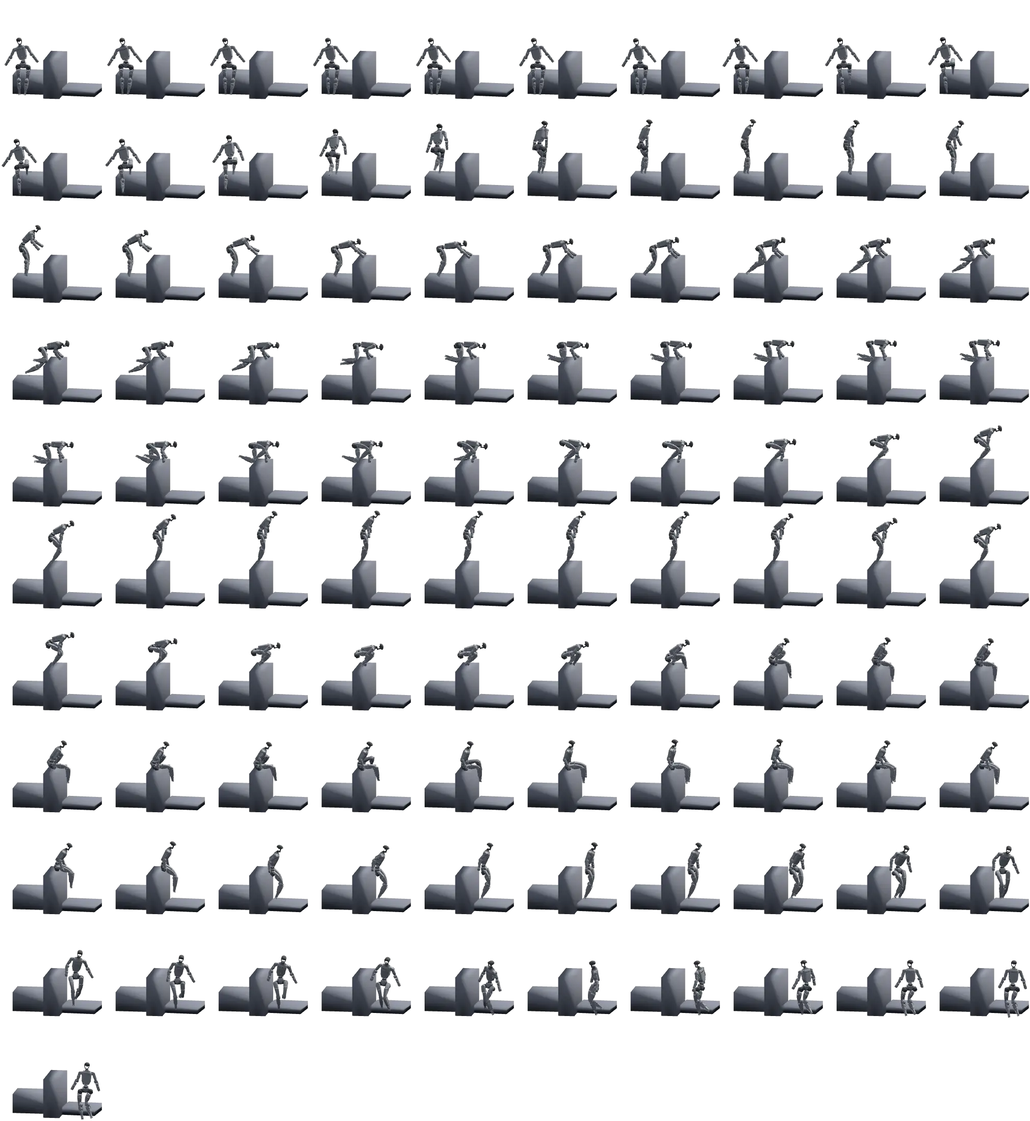
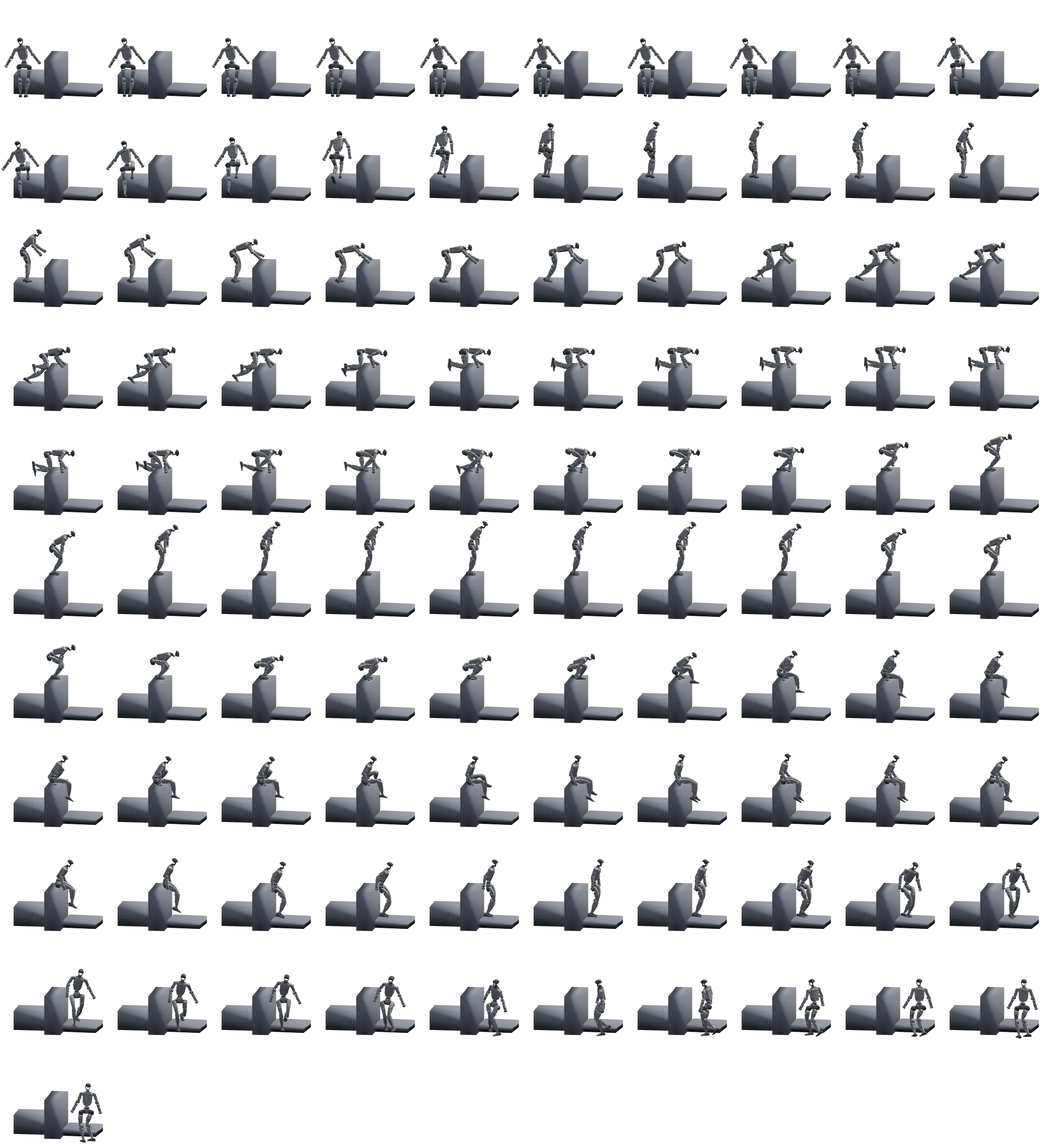
fix(OmniRetarget): 第 8 幕的 G1 补上手和脚，第 10 幕柱状图数字不压柱子
- 爬平台用的球形手 G1（g1_29dof_spherehand）里，脚、踝和手只有碰撞网格；离线导出时只取可视网格，
  这几块被跳过，渲出来的机器人没有手和脚。改成没有可视网格的 body 退回去画碰撞网格，三档平台的贴图表重渲
- 表 II 小多图的数字写在柱顶上方、跟着柱子长高，字号 10 → 11
- 测试核对柱子标签的位置；RELEASE_PLAN.md、AGENTS.md 记下这两处

Claude-Session: https://claude.ai/code/session_011Z1kwS3i78G3dKSyLdcSVm

diff --git a/assets/js/demos/omniretarget.js b/assets/js/demos/omniretarget.js
@@ -500,9 +500,9 @@
     anch_orig: {'file': 'g1_anch_orig.webp', 'R': 170, 'yaw': -1.0, 'pitch': 0.12, 'cw': 141, 'ch': 215, 'cols': 10, 'n': 20, 'ax': 46, 'ay': 206, 'step': 3, 'anchor': [0.6348, 0.8022, 0.0]},
     anch_code: {'file': 'g1_anch_code.webp', 'R': 170, 'yaw': -1.0, 'pitch': 0.12, 'cw': 141, 'ch': 217, 'cols': 10, 'n': 20, 'ax': 24, 'ay': 206, 'step': 3, 'anchor': [0.6348, 0.8022, 0.0]},
     anch_none: {'file': 'g1_anch_none.webp', 'R': 170, 'yaw': -1.0, 'pitch': 0.12, 'cw': 141, 'ch': 217, 'cols': 10, 'n': 20, 'ax': 24, 'ay': 206, 'step': 3, 'anchor': [0.6348, 0.8022, 0.0]},
-    climb_z08: {'file': 'g1_climb_z08.webp', 'R': 90, 'yaw': -1.35, 'pitch': 0.18, 'cw': 202, 'ch': 190, 'cols': 10, 'n': 101, 'ax': 95, 'ay': 184, 'step': 7, 'anchor': [-1.0, -0.5, 0.0]},
-    climb_z10: {'file': 'g1_climb_z10.webp', 'R': 90, 'yaw': -1.35, 'pitch': 0.18, 'cw': 203, 'ch': 193, 'cols': 10, 'n': 101, 'ax': 96, 'ay': 187, 'step': 7, 'anchor': [-1.0, -0.5, 0.0]},
-    climb_z12: {'file': 'g1_climb_z12.webp', 'R': 90, 'yaw': -1.35, 'pitch': 0.18, 'cw': 202, 'ch': 200, 'cols': 10, 'n': 101, 'ax': 95, 'ay': 197, 'step': 7, 'anchor': [-1.0, -0.5, 0.0]},
+    climb_z08: {'file': 'g1_climb_z08.webp', 'R': 90, 'yaw': -1.35, 'pitch': 0.18, 'cw': 204, 'ch': 194, 'cols': 10, 'n': 101, 'ax': 97, 'ay': 184, 'step': 7, 'anchor': [-1.0, -0.5, 0.0]},
+    climb_z10: {'file': 'g1_climb_z10.webp', 'R': 90, 'yaw': -1.35, 'pitch': 0.18, 'cw': 205, 'ch': 197, 'cols': 10, 'n': 101, 'ax': 98, 'ay': 187, 'step': 7, 'anchor': [-1.0, -0.5, 0.0]},
+    climb_z12: {'file': 'g1_climb_z12.webp', 'R': 90, 'yaw': -1.35, 'pitch': 0.18, 'cw': 204, 'ch': 204, 'cols': 10, 'n': 101, 'ax': 97, 'ay': 197, 'step': 7, 'anchor': [-1.0, -0.5, 0.0]},
     anch_pin: {'file': 'g1_anch_pin.webp', 'R': 170, 'yaw': -1.0, 'pitch': 0.12, 'cw': 150, 'ch': 216, 'cols': 10, 'n': 20, 'ax': 33, 'ay': 205, 'step': 3, 'anchor': [0.6348, 0.8022, 0.0]}
   };
   var spriteSeq = 0;
@@ -1326,9 +1326,10 @@
           var v = T.rows[m][c.i], bw = 160 / ms.length - 8, bx = x0 + 4 + k * (bw + 8);
           if (!v) { g.appendChild(svgText(bx + bw / 2, base - 4, 'N/A', 'demo-x-mut', 8.5, 'middle')); return; }
           var b = vbar(g, bx, base, bw, M_COLOR[m], m === 'OmniRetarget' ? 0.95 : 0.7);
-          var lab = svgText(bx + bw / 2, base - 4, fmt(v[0], 2), 'demo-x-ink', 10, 'middle');
+          /* 数字写在柱顶上方，跟着柱子长高，不压在柱子上 */
+          var lab = svgText(bx + bw / 2, base - 5, fmt(v[0], 2), 'demo-x-ink', 11, 'middle');
           g.appendChild(lab);
-          bars.push({ b: b, h: (60 * Math.min(v[0], c.max)) / c.max, lab: lab });
+          bars.push({ b: b, h: (60 * Math.min(v[0], c.max)) / c.max, lab: lab, base: base });
         });
       });
       return { g: g, bars: bars };
@@ -1348,7 +1349,12 @@
       rowsG.forEach(function (r, k) {
         var a = [3.6, 10.4, 13.6][k];
         setOpacity(r.g, seg(t, a, a + 0.6));
-        r.bars.forEach(function (b, i) { setH(b.b, b.h * ease(seg(t, a + 0.3 + i * 0.03, a + 1.3 + i * 0.03))); setOpacity(b.lab, seg(t, a + 1.2, a + 1.6)); });
+        r.bars.forEach(function (b, i) {
+          var h = b.h * ease(seg(t, a + 0.3 + i * 0.03, a + 1.3 + i * 0.03));
+          setH(b.b, h);
+          b.lab.setAttribute('y', (b.base - h - 5).toFixed(1));
+          setOpacity(b.lab, seg(t, a + 1.2, a + 1.6));
+        });
       });
       setOpacity(gmrNote, seg(t, 7.2, 7.6) * (0.7 + 0.3 * Math.cos(t * 4)));
       setOpacity(why, seg(t, 7.2, 7.8));

diff --git a/tests/test_paper_demos.py b/tests/test_paper_demos.py
@@ -1129,6 +1129,9 @@ def test_omniretarget_explainer_demos_and_worked_example_share_the_paper_numbers
     # 第 3 幕：放大的手腕旁边画出整个人（骨架 + 箱子）和同一帧的 G1 渲染
     lap = js.split("function buildSceneLaplacian()", 1)[1].split("function drawOnPath(", 1)[0]
     assert "skeleton(bodyL" in lap and "boxWire(bodyL" in lap and "g1Sprite(bodyR, 'orig_side')" in lap and "clipCircle(" in lap
+    # 第 10 幕：表 II 柱子上的数字写在柱顶上方、跟着柱子长高，不压在柱子上
+    t2 = js.split("function buildSceneTable2()", 1)[1].split("function buildSceneDownstream()", 1)[0]
+    assert "b.lab.setAttribute('y', (b.base - h - 5).toFixed(1));" in t2
     # 第 1 幕结尾用一句话解释 SOCP：旁白、字幕轨与表 I 下的小卡片同一个说法
     socp = "S O C P 是二阶锥规划，一种凸优化：除了线性约束，还允许「一个向量的长度不超过某个值」，求解器能又快又稳地找到最优解。"
     assert f'(0, 16.0, 19.0, "{socp}")' in narration

diff --git a/AGENTS.md b/AGENTS.md
@@ -85,7 +85,7 @@ Jekyll 把笔记渲染成同名 `.html`，源 `.md` 不会发布，所以 `[PPO]
 
 ### 讲解动画的幕数按内容定，不是固定五幕
 
-`K.explainer` 不限制分镜数量，**幕数应当由论文本身决定**：一个核心概念一幕，开篇提出几个问题就得有几幕来回答，不要为了凑齐模板而拆分或合并。当前 PPO / DeepMimic / AMP / ADD / CALM 各 5 幕（与各自笔记「是怎么做的」那几节一一对应），PHC 6 幕（开篇立了三堵墙，第一堵墙需要「先长出列」「再混合列」两幕），AWR 6 幕（PPO 留下三个麻烦、① 评估、② 指数权重、加权回归就是加权平均、off-policy 的赚与亏、闭环与源码落点，正好六件事），ASE 6 幕（它在 AMP 上叠了六件事：latent code / 为什么必须约束 / encoder / 两半奖励 / diversity / 定期重采样，挤进五幕会让 encoder、奖励拆两半和 diversity 三块共用同一帧，谁都读不清），PULSE 6 幕（三个阶段各一幕，外加开篇的「缺一个通用表示」、命门 VIB 与本体感受先验各一幕 —— VIB 和先验是两件独立的事，合成一幕会让 β 的取舍和「固定先验会踩空」抢同一块画面），SONIC 7 幕（任务选错了 / 三轴一起放大 / universal token space / 五项 aux loss 焊住潜空间 / 实时 kinematic planner / System-1 + System-2 / 数据到实机的闭环 —— 「三路 encoder 汇进一个 FSQ」和「靠五项 aux loss 保证三路真落在同一空间」是两件独立的事，规划器与 VLA 接入也是，压进六幕就会有两幕各塞两件事），GR00T N1 7 幕（没有人形互联网 / 10 Hz 的第 12 层与 63.9 ms 的动作块 / 流匹配路径和 K=4 欧拉 / 数据金字塔三层 / 潜动作与 IDM 补标签 / 一套权重加按本体的 MLP / Table 2–3 的任务加权平均和短程桌面的边界 —— 「频率怎么接」和「流匹配公式」是两件独立的事，金字塔回答数据放哪一层、潜动作回答标签从哪来，压进六幕会有两幕各塞两件），Cosmos 5 幕（为什么要世界模型 / 视频整理 / 因果 tokenizer / 扩散与自回归并列预训练 / 三类后训练示例 —— 扩散和自回归是两条预训练路线，画成前后两级会把 Table 10 的模型地图读反，所以第 4 幕必须是并排的两列），GMR 13 幕（人和机器人的身体不一样 / 两个开源基线怎么缩放 / 第 1、2 步：一张配置表 / 第 3 步：非均匀局部缩放 / 根和脚要用同一个比例 / 第 4 步：先对朝向 / 第 5 步：再对所有位置 / 评测：只换参考动作 / 表 I：谁跟得住 / 图 3：三类瑕疵 / 图 4：像不像原动作 / 表 III：从哪一帧开始 / 开源库与局限 —— 2026-10-11 从七幕重做：论文一半是方法、一半是评测。方法节的五步里，第 1、2 步写在配置的同一行（对应与权重、偏移），合成一幕；第 3 步的式 2 与「根和腿必须同比例」（由式 2 推出的滑脚，配两条复现实验的跑道）是两件事；两个 IK 阶段权重、目标不同，各占一幕；实验节按论文自己的 Q1–Q3 一问一幕，评测设计（三种测法、成功的定义）和第 V-D 节的起始帧各一幕，压回七幕会让表 I 的热图和图 3 的截图、或用户研究和起始帧抢同一帧。人和 G1 的动作是 LAFAN1 `walk1_subject1.bvh` 第 920–1003 帧，我们用 mink + MuJoCo 照官方代码跑出来、以毫米精度 base64 嵌进 bundle（人 22 根骨，G1 21 个身体原点加脚底 8 个接触点，四种设定：GMR 默认 / 全身按身高 / 腿按手臂 / 只跑第一阶段），不是论文的实验；表 I–III、图 4 照抄论文，第 10、11 幕用论文图 1、图 3 的裁剪；动画、三个演示、配音旁白与笔记「🚶 具体实例」共用同一组数，`test_gmr_explainer_demos_and_worked_example_share_the_paper_numbers` 会解码嵌入的片段用 Python 再算一遍。第 3–8、12 幕的 G1 是 3D 渲染：借 [Robot_Retarget_Online](https://github.com/ImChong/Robot_Retarget_Online)（GMR 的浏览器版）的 `loadRobot` + `buildRobotScene`（MuJoCo WASM + three.js），读同一个 `g1_mocap_29dof.xml`，按复现实验的 qpos 用正交相机逐帧离线渲染（相机 yaw / pitch 与 bundle 的 `project()` 同一套，3/4 视角统一为 −0.45 / 0.1、侧视 0 / 0.04），每种设定 84 帧拼成一张 webp 贴图表放在 `assets/img/papers/gmr/g1_3d/`（七张约 1.45 MB），`g1Mesh()` 用嵌套 `<svg viewBox>` 裁出当前帧、骨盆正下方的地面点对齐，二维目标点与连线叠在上面；贴图在该幕第一次 draw 时才设 href，`render.mjs` 预热后会等所有 `<image>` 解码完再出帧。第 12 幕的默认姿态取 BeyondMimic `robots/g1.py` 的 init_state），OmniRetarget 12 幕（只盯关键点会丢掉交互 / 交互网格 / Laplacian 坐标 / 四条硬约束 / 序贯 SOCP / 一条演示扩成六条 / 别让整台机器人跟着箱子平移 / 地形与本体 / 极简强化学习 / 表 II / 下游强化学习 / 真机、数据与局限 —— 2026-10-12 从七幕重做：第 III-A 节里「网格怎么连」（Delaunay）与「形状怎么量」（式 1 的 Laplacian 坐标，配第 76 帧左手腕 22 个邻居的算例）是两件事，式 3 的四条硬约束（配「关掉不穿透 / 关掉脚粘地」的复现曲线）与序贯 SOCP 的求解（信赖域、热启动、每帧迭代次数）又是两件；第 III-B 节的物体扩增（式 7 的指数衰减）、下身锚定与初始双脚（复现实验里官方代码只做了锚定、整台 G1 跟着箱子挪）、地形与本体各占一幕；第 IV 节的极简强化学习一幕；结果按第 V 节：表 II 的运动学质量、下游成功率与图 7 的直方图、真机与开源数据，压回七幕会让穿透曲线和迭代曲线、或表 II 的柱子和图 7 的直方图抢同一帧。2026-10-13 按看片反馈：第 1 幕结尾一句话讲 SOCP（表 I 下的二阶锥卡片），第 2 幕在 Delaunay 之后一句话讲它的规则（G1 出场前右框画平面上的外接圆：一个空、一个圈里还有点），第 3 幕的点图旁边要有人的骨架、箱子和同一帧 G1 的渲染，手腕用放大镜看，否则只看一团点读不懂。G1 是照官方 holosoma 代码在 OMOMO `sub3_largebox_003`（196 帧）与 `mocap_climb_seq_0`（701 帧）上跑的复现实验，用 Robot_Retarget_Online 的 three.js 材质离线渲染成贴图表放在 `assets/img/papers/omniretarget/g1_3d/`，关键点、接触球、箱子位姿、穿透 / 能量序列以 base64 嵌进 bundle；表 I–II、图 7 照抄论文，第 1、8、12 幕用论文图 6、图 3 与图 1、图 5 的裁剪；动画、三个演示、配音旁白与笔记「🚶 具体实例」共用同一组数，`test_omniretarget_explainer_demos_and_worked_example_share_the_paper_numbers` 会解码嵌入的数据用 Python 再算一遍），Diffusion Policy 7 幕（平均动作撞障 / 条件扩散 / action chunking / 视觉条件 + FiLM / DDIM 加速 / receding horizon / 定量证据与局限 —— 「扩散过程」和「一次吐多长」是两件独立的事，视觉条件与 DDIM 加速也是，压进五幕会让 chunking、FiLM 和 RHC 抢同一帧），LCP 10 幕（仿真里的理想电机 / Lipschitz：给斜率设上限 / 从「别太陡」到「陡了就罚」 / 罚的到底是什么：均值的斜率 / 几行代码接进 PPO / 观测、ROA 与罚整段输入 / 命令、奖励与课程 / 三种平滑办法（表 I(a)）/ $\lambda_{gp}$ 扫一遍（表 I(b)）/ 四台真机与局限 —— 方法节的「为什么约束梯度」（式 1–2 与图 3 的圆锥）和「怎么变成可微的一项」（式 4–7 四步）各占一幕，读懂式 7 还要单独看一个高斯策略罚的是什么（均值的斜率，噪声越小罚得越重），代码与超参数又是一幕；训练设置里「罚哪些输入」（表 I(c)）与「平滑奖励拿掉后还剩什么」（表 IV、附录 B 的课程）是两件事；结果一表一幕，压回五幕会让四步推导和圆锥、五档系数的柱和四种办法的柱抢同一帧；第二版按「公式太多」的反馈改成以动图为主：两个关节跟指令、两条策略抖给你看、罚款与拔河、钟形沿均值线滑动、旋钮拧过五档，每幕最多留一条公式，第 10 幕的三台机器人是按开源 URDF 渲染的真机图；动画、三个演示、配音旁白与笔记「🚶 具体实例」共用同一份论文数字，第 2–4 幕的一维策略与两维高斯是标明的玩具，`test_lcp_explainer_demos_and_worked_example_share_the_paper_numbers` 会核对），BeyondMimic 12 幕（两个缺口 / 锚定跟踪 / 奖励：四个高斯加三项正则 / 观测：单步与 Rot6D / 动作与关节阻抗 / 随机化与部署延迟 / 自适应采样 / 跟踪上真机 / VAE 潜空间 / 状态—潜动作扩散 / 代价引导 / 测试时的任务与边界 —— 以 arXiv v4 为准：方法节按 MDP 的组成一块一块写，锚定、奖励（表 S1）、观测、阻抗（表 S3 / S4）、随机化（表 S2）、自适应采样各有公式和图 8 的一组消融，所以第 2–7 幕一块一幕，「观测」与「阻抗」在正文同属一节，但证据分别是图 8A 的朝向 / 历史两行与 armature 一行加图 S2，合成一幕会让两组柱子抢同一帧；VAE 与扩散是两个训练阶段，引导是推理时的事；结果按正文的两节各一幕；第 2、5、7、11 幕与四个演示、配音旁白、笔记「🚶 具体实例」共用同一份论文数字，图 8A / 图 S2 是读图近似值，`test_beyondmimic_explainer_demos_and_worked_example_share_the_paper_numbers` 会核对），UMR 8 幕（骨架中心的对应一款机器人一套配方 / 体表点云当接口、形变而非匹配 / 三项损失与测地图 / 绑定与位姿残差 / 接触图共用环境点 / 阻尼约束 GN QP / 三个尺度的定量证据 / 闭环与源码落点 —— 位姿残差和接触残差是论文里两条独立的残差，「怎么学对应」和「为什么非要 Edge 项」也是两件事，压进七幕会让左右翻转的算例和点云形变动画抢同一块画面；第 3–6 幕的小算例与笔记「🧮 数据计算实例」共用同一组数字），PHP 8 幕（跑酷四关 / 动作匹配的最近邻 / 临界阻尼弹簧把命令变成查询 / Loco → Skill → Loco 的拼接与入口密度 / 单技能专家 / DAgger 盲区与 PPO 课程 / 深度学生只拿速度命令 / 定量证据与真机 —— 「怎么找帧」和「查询从哪来」是论文附录 A 里分开的两节，「专家」与「蒸馏」是两个训练阶段，深度相机建模又是 sim-to-real 的主要工作量，压进七幕会让课程曲线和相机噪声抢同一帧），Perceptive BFM 7 幕（操作者—环境错配 / PMT 四阶段与「TCRS 只教不用」的契约 / TCRS 摆腿：接触、中足、MPPI / TCRS 身体：根高度、碰撞修复、多点 IK / 目标系动作对齐 / 恒等门控残差 / 定量证据与边界 —— TCRS 的「脚怎么走」与「身体怎么跟」各是一组公式，合成一幕会让 MPPI 候选表和根高度滤波抢画面；对齐与门控是论文两条独立的消融，各占一幕）。GentleHumanoid 7 幕（跟踪策略把外力当扰动 / 阻抗参考动力学 / 抵抗与引导两种交互弹簧 / 受力暴露的多样性 / 安全力阈值 / 教师—学生与柔顺奖励 / 定量证据与局限 —— 「交互力长什么样」与「什么时候、在哪几个 link、多硬」是论文式 3–4 与附录 A 调度两件事，阈值又有自己的截断公式与 ISO 换算，合并会让子步积分表、平衡点表与压强换算挤在同一帧）。四足野外盲走 9 幕（野外为什么难 / 相位振荡器 + 足端残差的动作空间 / 特权教师 / 本体学生 / 自适应地形课程 / 野外零样本与表 1 / 室内对照 / 记忆长度与踩空反射 / 解码器与局限 —— 论文的三个支柱 TCN 记忆、特权训练、地形课程各有一节方法和一组消融，加上单独的 Motion synthesis 就是第 2–5 幕；「野外 + 地下挑战赛」（表 1）与「室内台阶 / 负重 / 打滑」（图 3）是两类证据，「记忆要多长」（图 5B–D + 图 6）与「记忆里装了什么」（图 S2 的解码器）是验证节与分析节的两段，合成一幕会让表 1 的柱子和图 3E 的折线、或三档消融柱和摩擦曲线抢同一帧；动画、三个演示与笔记「🚶 具体实例」共用同一份论文数字，`test_quadterrain_explainer_demos_and_worked_example_share_the_paper_numbers` 会核对）。真实世界人形行走 10 幕（全尺寸人形为什么难 / 因果 Transformer / 两步训练 / 奖励与命令 / 虚拟弹簧与域随机化 / 户外与实验室 / 自然行走 / 下坡换步态 / 脚被绊住 / 消融与局限 —— 方法节的网络、训练目标、奖励、仿真各一幕；结果按论文的图一图一幕，图 5 的「慢变化改步态」与图 6 的「快变化被绊住」是上下文适应的两种时间尺度，各有一组神经元分析，合成一幕会让两条神经元曲线、二维散点和热图抢同一帧；14 项奖励塞进训练那一幕会和式 2、λ 曲线、图 8C 挤在一起；十幕起 `kit.js` 的幕号显示成 10 而不是 010，动画、三个演示、配音旁白与笔记「🚶 具体实例」共用同一份论文数字，命令、奖励、随机化、PPO 规模取自 arXiv v1 附录，图 2D、图 8 是读图近似值，`test_realhumanoid_explainer_demos_and_worked_example_share_the_paper_numbers` 会核对）。ASAP 12 幕（仿真里跳得起来、真机跳不动 / 从人类视频到 G1 参考动作 / 相位跟踪策略 / 上真机录一遍 / 残差动作模型 / 冻结 Δ 微调、部署时拿掉 / 开环回放（表 III）/ 闭环微调（表 IV）/ 真机只学脚踝（表 V）/ 怎么训 Δ（图 10）/ 怎么用 Δ（图 11）/ Δ 学到了什么与局限（图 12、13）—— 方法节「采数据」与「训练 Δ」是第 III-A、III-B 两节，Δ 的训练与使用各有一条式子；结果按论文自己提的 Q1–Q6 一问一幕，压成十幕会让表 III 与表 IV、或图 11 的曲线与图 12 的噪声柱抢同一帧；局限和真机那一幕讲的是同一批约束，并进最后一幕；第 5、11 幕的单关节玩具（G1 脚踝刚度 20、0.65 倍刚度的 −0.35 取自官方代码）与一步匹配的不动点 0.4077、三个演示、配音旁白与笔记「🚶 具体实例」共用同一份数字，图 5、图 11 是读图近似值，`test_asap_explainer_demos_and_worked_example_share_the_paper_numbers` 会核对，并用 Python 重跑一遍单关节玩具）。接触辅助 InEKF 12 幕（为什么要状态估计 / IMU 推、脚踩住、运动学校正 / 线性化点选错 / 一个矩阵装下状态 / 误差不看轨迹 / 运动学校正：H 是常数 / 看不见的方向 / 不确定性的形状 / IMU 零偏 / 增删接触点 / 收敛（图 3、8）/ Cassie 实测（图 9–12）—— 论文第 5 节的状态、过程模型、观测、可观性四块各一幕；第 4 节「EKF 在估计值上线性化错在哪」用站立的数值例子单独一幕，后面的定理才看得懂；第 6.4 节的协方差形状、第 7 节的零偏、第 8 节的增删接触各有自己的公式，合并会让可观性矩阵和香蕉、或零偏的 $A$ 和增删接触的 $F$、$G$ 抢同一帧；结果按收敛与精度两幕。站立例子（0.1 / 0.5 rad）、2 cm 校正、新触地点、香蕉的弯度在动画、三个演示、配音旁白与笔记「🚶 具体实例」里共用同一组数，图 3、4、6、8、9 是读图近似值，第 7 幕「QEKF 秩为 9」是自己算的小例子，`test_inekf_explainer_demos_and_worked_example_share_the_paper_numbers` 会核对，并用纯 Python 重算可观性矩阵的秩；Cassie 的图取自 Robot_Description_Gallery）。Berkeley Humanoid 12 幕（差距从哪来 / 孩子大小的人形（表 1）/ 执行器直接当关节 / 四种自研执行器（表 2）/ EtherCAT 与时序 / 可靠又便宜（表 3、4）/ 拟人的腿（表 5）/ 最简的控制器 / 辨识转子惯量与摩擦 / 随机化：硬件窄、环境宽（表 6）/ 走出实验室（图 4–7）/ 仿真与真机对比（图 8、9）与局限 —— 第 3 节是系统概览加四条设计考量，「仿真友好」里的结构（执行器即关节、armature 的 $N^2$）与时序（EtherCAT 的 0.5–2 ms、25 kHz PD）一个管建模误差、一个管指令执行，合成一幕会让转子惯量的柱子和时间线抢画面；第 4.2 节的「辨识」（摩擦曲线、CAD 的转子惯量）与「随机化多宽」（表 6 与窄 / 宽两条带）是两步；结果按第 5.1、5.2 节各一幕，5.3 的摔倒记录并进可靠那一幕。论文没给摩擦模型和 PD 增益，第 4、9 幕与演示取自官方训练代码并标明；第 3、10 幕的单关节玩具（URDF 的小腿 0.0288 kg·m²、代码 KFE 的 PD 与摩擦）与三个演示、配音旁白、笔记「🚶 具体实例」共用同一组数（漏掉 armature 起步快 42%，窄 / 宽随机化带宽 0.0119 / 0.0845 rad、约 7.1 倍），`test_berkeley_humanoid_explainer_demos_and_worked_example_share_the_paper_numbers` 会核对并用纯 Python 重跑玩具；真机图取自 Robot_Description_Gallery）。ToddlerBot 12 幕（研究要的平台和工业要的不一样（表 1）/ 30 个自由度与三种传动 / 可复现是硬约束 / 功率因子与电机选型（式 4–5、表 2、图 8）/ 零点校准（图 10）/ 电机台架辨识（式 6–7）/ 9 参数执行器模型（式 8–10、表 3、图 12）/ 遥操作装置与两层 PD / 关键帧动画与 RL 行走（式 1–2、表 5–6）/ 扩散策略 / 实验：臂展、负重、耐久与表 7 / 复刻的证据、局限与之后 —— 第 3 节的三条设计原则各占一幕（自由度与传动、可复现、功率因子），数字孪生在第 3.3 节分成「零点校准」「电机 sysID」两件事、附录又把 sysID 拆成台架测被动参数（8.9）和 chirp 拟合执行器模型（8.10），所以是第 5–7 三幕；遥操作装置和两层 PD 是真机数据这边，关键帧与 RL 是仿真数据这边，扩散策略单独一幕，压进十幕会让台架的线性拟合和式 9 的台阶、或领导臂和 ZMP 奖励抢同一帧；结果按第 5 节的「能力 / ML 兼容 / 可复现」分两幕。动画第 6、7 幕的单电机玩具（表 3 的 XC330 带 21700 电芯负载，k_p 取代码的 1500 ÷ 150）与三个演示、配音旁白、笔记「🚶 具体实例」共用同一份论文数字，图 8 的 p̃ 按图上标的数，`test_toddlerbot_explainer_demos_and_worked_example_share_the_paper_numbers` 会核对并用纯 Python 重跑玩具；真机图取自 Robot_Description_Gallery 按官方 URDF `toddlerbot_2xc` 渲染的图）。HumanML3D 12 幕（一句话生成动作卡在哪（图 1）/ 动作从哪来 / 每段配三句话（补充材料图 3 的标注界面）/ 一帧 263 维 / 每 4 帧一个 snippet code / Text2Length（补充材料图 6）/ 文本编码器与词注意力 / 先验、后验、生成器 / 三项损失与课程学习 / 评测器与 R-Precision / 结果（图 4、用户研究）/ 消融、局限与遗产（图 6、补充材料图 8）—— 一篇论文同时交了数据集、方法和评测协议：数据集里「动作怎么统一格式」与「文字怎么来」是第 4 节的两件事，「每帧存什么」是第 5 节；方法里自编码器、长度采样、文本编码与局部词注意力（式 4）、先验 / 后验 / 生成器（式 3、5）、训练方案（式 6 与课程）各自独立；评测器是附录 B 里后来被整个领域沿用的贡献；结果与消融、局限各一幕。第二版是九幕，注意力和三个 GRU、标注和统一格式、结果和消融各挤在一帧里、字多图少，2026-10-11 按「多用图少用文字」拆成十二幕：骨架用官方仓库自带片段 `012314` 的真实 22 关节数据（一段网球一发，base64 嵌在 bundle 里），第 4 幕的热图是这段 170 × 263 特征按 `Mean.npy` / `Std.npy` 做 Z-score 画的，第 6 幕的两条长度分布是从补充材料图 6 量出来的读图近似值）。PHP、Perceptive BFM、GentleHumanoid 与 HumanML3D 的动画算例与笔记「🚶 具体实例」共用同一组数字（HumanML3D 的十二幕、三个演示、配音旁白与具体实例共用片段 `012314` 和补充材料图 6 的读图值，`test_humanml3d_explainer_demos_and_worked_example_share_the_paper_numbers` 会核对，并用 Python 重跑 R-Precision 玩具）。Transformer 7 幕（RNN 的串行瓶颈 / 缩放点积注意力手算 / 为什么除以 $\sqrt{d_k}$ / 多头 / 位置编码 / 编码器—解码器与因果掩码 / 训练配方与结果 —— 「一次注意力怎么算」与「为什么要缩放」是 $d_k = 4$ 与 $d_k = 64$ 两组数，合成一幕会让权重条和梯度对比抢画面），π₀ 7 幕（三道坎 / 两套权重 / 分块掩码与 KV 缓存 / 流匹配 / 动作块与推理预算 / 数据与配方 / 实验与边界 —— 附录 B 里「两套权重」和「掩码」是分开的两段），π₀.₅ 7 幕（开放世界的难题 / 异构数据 / 两层推理 / 离散 + 连续两阶段 / 输入输出与部署 / 训练地点数 / 消融 —— 两层推理是推理时的分解、两阶段是训练时的分解），OP3 足球 12 幕（为什么是足球 / 一步控制 / 踢球教师 / 起身教师 / 按状态蒸馏与 λ / 自博弈 / 奖励与安全正则 / 零样本上真机 / 对比脚本控制器 / 定位球与对手意识 / 行为嵌入与价值函数 / 局限与之后 —— 两个阶段各有两件独立的事：踢球教师与起身教师是分开训的两个策略，蒸馏回答「向谁学」（式 2–3 的 λ）、自博弈回答「和谁踢」（对手池与图 7），论文是两段与两组消融；观测与滤波撑得起单独一幕；结果按论文小节一节一幕（表 1 与测法、图 5、图 4 + 图 6），压回七幕会让 λ 曲线和对手池、四项基本功和定位球抢同一帧；动画、三个演示、配音旁白与笔记「🚶 具体实例」共用同一份论文数字，156% / 24% 是 arXiv v1 的另一种测法，`test_op3soccer_explainer_demos_and_worked_example_share_the_paper_numbers` 会核对；十二幕的封面目录排成两列，单列会落到 3:4 裁剪线以下），SMP 8 幕（对抗先验不能复用 / 预训练冻结的扩散模型 / SDS 残差当奖励 / ESM 固定三档 / AdaNorm 按档归一化 / GSI 生成初始状态 / CFG 与上下半身组合 / 闭环、证据与边界 —— ESM 与 AdaNorm 同在论文 5.1 节，但一个管「抽哪一档」（方差，表 5 / 7）、一个管「三档怎么加」（量级，表 6），合成一幕会让 50 档的对数曲线和三档占比条抢同一帧；第 3–5、7 幕的二维玩具算例与笔记「🚶 具体实例」共用同一组数，`test_smp_explainer_and_worked_example_share_the_same_numbers` 会核对），域随机化 8 幕（现实鸿沟与第三条路 / 七项随机化与三种纹理 / 相机不标定 / VGG-16 检测器与训练 / 真机 1.5 cm / 图 4–5 的张数与纹理种数 / 表 2 逐项拿掉 / 真机抓取与之后 —— 「随机什么」与「相机怎么随机」是论文 III-A 里两件事，后者有自己的 10 × 5 × 10 cm / 0.1 rad / 5% 与桌高固定；「要多少」（图 4、图 5 两条对数轴曲线）与「拿掉哪一项」（表 2 的分组柱）是 IV-C 里两组独立的消融，合成一幕会抢同一帧；第 3、5–7 幕与三个演示、笔记「🚶 具体实例」共用同一份论文数字，图 4 / 图 5 是读图近似值，`test_dr_explainer_demos_and_worked_example_share_the_paper_numbers` 会核对）；Transformer、π₀、π₀.₅ 三篇的动画算例与笔记「🚶 具体实例」共用同一组数字，`tests/test_paper_demos.py::test_vla_explainers_share_numbers_with_their_notes` 会核对。ExBody 13 幕（图形学的角色为什么上不了真机 / 上半身照着做、两条腿只跟速度 / 策略看得见什么 / 从 CMU 挑出 780 段 / 人的数据自带分布 / 重定向：直接抄关节角 / 从数据里抽起点 / 五项跟踪奖励 / 正则：脚要抬、动作别抖 / 跟得怎么样：根运动与双手 / 随机命令与全身跟踪 / 加上 AMP 会怎样 / 真机与局限 —— 第 II 节的问题形式化分「目标拆两半」与「观测只用真机拿得到的」两段，第 III 节的数据有「怎么挑」（关键词、表 II）与「分布什么样」（图 3）两件事，重定向、RSI、跟踪奖励（表 III）各一幕，附录的正则（表 VI）与训练设置合一幕；结果按论文自己的问题：根运动与双手同是「跟得怎么样」（图 5、6），随机命令与全身跟踪（表 IV、图 8）、AMP（表 IV、图 7、表 V）、真机与局限各一幕，压成 12 幕会让表 II 的条和图 3、或表 III 的五条和表 VI 的十四项抢同一帧。H1 与人的骨架是我们照官方重定向步骤（poselib 的 T 字姿势对齐 + `motion_lib` 的指数映射与投影）用 CMU 官网的 ASF/AMC 重算的四段动作（`141_16` 挥手、`104_41` 僵尸走、`141_22` 击掌、`08_07` 大步走），按 Robot_Retarget_Online 的 three.js 材质离线渲染成贴图表放在 `assets/img/papers/exbody/h1_3d/`（五张约 1.4 MB），每帧 125 个 int16 以 base64 嵌进 bundle；表 I–VIII 照抄论文，第 4、5、10–13 幕用论文图 1、3、5–9 的裁剪；第 6 幕的指数映射算例、例 5 的假设误差与三个演示、配音旁白、笔记「🚶 具体实例」共用同一组数，`test_exbody_explainer_demos_and_worked_example_share_the_paper_numbers` 会解码嵌入的数据用 Python 再算一遍）。
+`K.explainer` 不限制分镜数量，**幕数应当由论文本身决定**：一个核心概念一幕，开篇提出几个问题就得有几幕来回答，不要为了凑齐模板而拆分或合并。当前 PPO / DeepMimic / AMP / ADD / CALM 各 5 幕（与各自笔记「是怎么做的」那几节一一对应），PHC 6 幕（开篇立了三堵墙，第一堵墙需要「先长出列」「再混合列」两幕），AWR 6 幕（PPO 留下三个麻烦、① 评估、② 指数权重、加权回归就是加权平均、off-policy 的赚与亏、闭环与源码落点，正好六件事），ASE 6 幕（它在 AMP 上叠了六件事：latent code / 为什么必须约束 / encoder / 两半奖励 / diversity / 定期重采样，挤进五幕会让 encoder、奖励拆两半和 diversity 三块共用同一帧，谁都读不清），PULSE 6 幕（三个阶段各一幕，外加开篇的「缺一个通用表示」、命门 VIB 与本体感受先验各一幕 —— VIB 和先验是两件独立的事，合成一幕会让 β 的取舍和「固定先验会踩空」抢同一块画面），SONIC 7 幕（任务选错了 / 三轴一起放大 / universal token space / 五项 aux loss 焊住潜空间 / 实时 kinematic planner / System-1 + System-2 / 数据到实机的闭环 —— 「三路 encoder 汇进一个 FSQ」和「靠五项 aux loss 保证三路真落在同一空间」是两件独立的事，规划器与 VLA 接入也是，压进六幕就会有两幕各塞两件事），GR00T N1 7 幕（没有人形互联网 / 10 Hz 的第 12 层与 63.9 ms 的动作块 / 流匹配路径和 K=4 欧拉 / 数据金字塔三层 / 潜动作与 IDM 补标签 / 一套权重加按本体的 MLP / Table 2–3 的任务加权平均和短程桌面的边界 —— 「频率怎么接」和「流匹配公式」是两件独立的事，金字塔回答数据放哪一层、潜动作回答标签从哪来，压进六幕会有两幕各塞两件），Cosmos 5 幕（为什么要世界模型 / 视频整理 / 因果 tokenizer / 扩散与自回归并列预训练 / 三类后训练示例 —— 扩散和自回归是两条预训练路线，画成前后两级会把 Table 10 的模型地图读反，所以第 4 幕必须是并排的两列），GMR 13 幕（人和机器人的身体不一样 / 两个开源基线怎么缩放 / 第 1、2 步：一张配置表 / 第 3 步：非均匀局部缩放 / 根和脚要用同一个比例 / 第 4 步：先对朝向 / 第 5 步：再对所有位置 / 评测：只换参考动作 / 表 I：谁跟得住 / 图 3：三类瑕疵 / 图 4：像不像原动作 / 表 III：从哪一帧开始 / 开源库与局限 —— 2026-10-11 从七幕重做：论文一半是方法、一半是评测。方法节的五步里，第 1、2 步写在配置的同一行（对应与权重、偏移），合成一幕；第 3 步的式 2 与「根和腿必须同比例」（由式 2 推出的滑脚，配两条复现实验的跑道）是两件事；两个 IK 阶段权重、目标不同，各占一幕；实验节按论文自己的 Q1–Q3 一问一幕，评测设计（三种测法、成功的定义）和第 V-D 节的起始帧各一幕，压回七幕会让表 I 的热图和图 3 的截图、或用户研究和起始帧抢同一帧。人和 G1 的动作是 LAFAN1 `walk1_subject1.bvh` 第 920–1003 帧，我们用 mink + MuJoCo 照官方代码跑出来、以毫米精度 base64 嵌进 bundle（人 22 根骨，G1 21 个身体原点加脚底 8 个接触点，四种设定：GMR 默认 / 全身按身高 / 腿按手臂 / 只跑第一阶段），不是论文的实验；表 I–III、图 4 照抄论文，第 10、11 幕用论文图 1、图 3 的裁剪；动画、三个演示、配音旁白与笔记「🚶 具体实例」共用同一组数，`test_gmr_explainer_demos_and_worked_example_share_the_paper_numbers` 会解码嵌入的片段用 Python 再算一遍。第 3–8、12 幕的 G1 是 3D 渲染：借 [Robot_Retarget_Online](https://github.com/ImChong/Robot_Retarget_Online)（GMR 的浏览器版）的 `loadRobot` + `buildRobotScene`（MuJoCo WASM + three.js），读同一个 `g1_mocap_29dof.xml`，按复现实验的 qpos 用正交相机逐帧离线渲染（相机 yaw / pitch 与 bundle 的 `project()` 同一套，3/4 视角统一为 −0.45 / 0.1、侧视 0 / 0.04），每种设定 84 帧拼成一张 webp 贴图表放在 `assets/img/papers/gmr/g1_3d/`（七张约 1.45 MB），`g1Mesh()` 用嵌套 `<svg viewBox>` 裁出当前帧、骨盆正下方的地面点对齐，二维目标点与连线叠在上面；贴图在该幕第一次 draw 时才设 href，`render.mjs` 预热后会等所有 `<image>` 解码完再出帧。第 12 幕的默认姿态取 BeyondMimic `robots/g1.py` 的 init_state），OmniRetarget 12 幕（只盯关键点会丢掉交互 / 交互网格 / Laplacian 坐标 / 四条硬约束 / 序贯 SOCP / 一条演示扩成六条 / 别让整台机器人跟着箱子平移 / 地形与本体 / 极简强化学习 / 表 II / 下游强化学习 / 真机、数据与局限 —— 2026-10-12 从七幕重做：第 III-A 节里「网格怎么连」（Delaunay）与「形状怎么量」（式 1 的 Laplacian 坐标，配第 76 帧左手腕 22 个邻居的算例）是两件事，式 3 的四条硬约束（配「关掉不穿透 / 关掉脚粘地」的复现曲线）与序贯 SOCP 的求解（信赖域、热启动、每帧迭代次数）又是两件；第 III-B 节的物体扩增（式 7 的指数衰减）、下身锚定与初始双脚（复现实验里官方代码只做了锚定、整台 G1 跟着箱子挪）、地形与本体各占一幕；第 IV 节的极简强化学习一幕；结果按第 V 节：表 II 的运动学质量、下游成功率与图 7 的直方图、真机与开源数据，压回七幕会让穿透曲线和迭代曲线、或表 II 的柱子和图 7 的直方图抢同一帧。2026-10-13 按看片反馈：第 1 幕结尾一句话讲 SOCP（表 I 下的二阶锥卡片），第 2 幕在 Delaunay 之后一句话讲它的规则（G1 出场前右框画平面上的外接圆：一个空、一个圈里还有点），第 3 幕的点图旁边要有人的骨架、箱子和同一帧 G1 的渲染，手腕用放大镜看，否则只看一团点读不懂。第 8 幕爬平台用的是 holosoma 的球形手 G1（`g1_29dof_spherehand`），它的脚、踝和手只有碰撞网格，离线渲染时没有可视网格的部位要退回去画碰撞网格，不然渲出来没有手和脚；第 10 幕柱状图的数字写在柱顶上方。G1 是照官方 holosoma 代码在 OMOMO `sub3_largebox_003`（196 帧）与 `mocap_climb_seq_0`（701 帧）上跑的复现实验，用 Robot_Retarget_Online 的 three.js 材质离线渲染成贴图表放在 `assets/img/papers/omniretarget/g1_3d/`，关键点、接触球、箱子位姿、穿透 / 能量序列以 base64 嵌进 bundle；表 I–II、图 7 照抄论文，第 1、8、12 幕用论文图 6、图 3 与图 1、图 5 的裁剪；动画、三个演示、配音旁白与笔记「🚶 具体实例」共用同一组数，`test_omniretarget_explainer_demos_and_worked_example_share_the_paper_numbers` 会解码嵌入的数据用 Python 再算一遍），Diffusion Policy 7 幕（平均动作撞障 / 条件扩散 / action chunking / 视觉条件 + FiLM / DDIM 加速 / receding horizon / 定量证据与局限 —— 「扩散过程」和「一次吐多长」是两件独立的事，视觉条件与 DDIM 加速也是，压进五幕会让 chunking、FiLM 和 RHC 抢同一帧），LCP 10 幕（仿真里的理想电机 / Lipschitz：给斜率设上限 / 从「别太陡」到「陡了就罚」 / 罚的到底是什么：均值的斜率 / 几行代码接进 PPO / 观测、ROA 与罚整段输入 / 命令、奖励与课程 / 三种平滑办法（表 I(a)）/ $\lambda_{gp}$ 扫一遍（表 I(b)）/ 四台真机与局限 —— 方法节的「为什么约束梯度」（式 1–2 与图 3 的圆锥）和「怎么变成可微的一项」（式 4–7 四步）各占一幕，读懂式 7 还要单独看一个高斯策略罚的是什么（均值的斜率，噪声越小罚得越重），代码与超参数又是一幕；训练设置里「罚哪些输入」（表 I(c)）与「平滑奖励拿掉后还剩什么」（表 IV、附录 B 的课程）是两件事；结果一表一幕，压回五幕会让四步推导和圆锥、五档系数的柱和四种办法的柱抢同一帧；第二版按「公式太多」的反馈改成以动图为主：两个关节跟指令、两条策略抖给你看、罚款与拔河、钟形沿均值线滑动、旋钮拧过五档，每幕最多留一条公式，第 10 幕的三台机器人是按开源 URDF 渲染的真机图；动画、三个演示、配音旁白与笔记「🚶 具体实例」共用同一份论文数字，第 2–4 幕的一维策略与两维高斯是标明的玩具，`test_lcp_explainer_demos_and_worked_example_share_the_paper_numbers` 会核对），BeyondMimic 12 幕（两个缺口 / 锚定跟踪 / 奖励：四个高斯加三项正则 / 观测：单步与 Rot6D / 动作与关节阻抗 / 随机化与部署延迟 / 自适应采样 / 跟踪上真机 / VAE 潜空间 / 状态—潜动作扩散 / 代价引导 / 测试时的任务与边界 —— 以 arXiv v4 为准：方法节按 MDP 的组成一块一块写，锚定、奖励（表 S1）、观测、阻抗（表 S3 / S4）、随机化（表 S2）、自适应采样各有公式和图 8 的一组消融，所以第 2–7 幕一块一幕，「观测」与「阻抗」在正文同属一节，但证据分别是图 8A 的朝向 / 历史两行与 armature 一行加图 S2，合成一幕会让两组柱子抢同一帧；VAE 与扩散是两个训练阶段，引导是推理时的事；结果按正文的两节各一幕；第 2、5、7、11 幕与四个演示、配音旁白、笔记「🚶 具体实例」共用同一份论文数字，图 8A / 图 S2 是读图近似值，`test_beyondmimic_explainer_demos_and_worked_example_share_the_paper_numbers` 会核对），UMR 8 幕（骨架中心的对应一款机器人一套配方 / 体表点云当接口、形变而非匹配 / 三项损失与测地图 / 绑定与位姿残差 / 接触图共用环境点 / 阻尼约束 GN QP / 三个尺度的定量证据 / 闭环与源码落点 —— 位姿残差和接触残差是论文里两条独立的残差，「怎么学对应」和「为什么非要 Edge 项」也是两件事，压进七幕会让左右翻转的算例和点云形变动画抢同一块画面；第 3–6 幕的小算例与笔记「🧮 数据计算实例」共用同一组数字），PHP 8 幕（跑酷四关 / 动作匹配的最近邻 / 临界阻尼弹簧把命令变成查询 / Loco → Skill → Loco 的拼接与入口密度 / 单技能专家 / DAgger 盲区与 PPO 课程 / 深度学生只拿速度命令 / 定量证据与真机 —— 「怎么找帧」和「查询从哪来」是论文附录 A 里分开的两节，「专家」与「蒸馏」是两个训练阶段，深度相机建模又是 sim-to-real 的主要工作量，压进七幕会让课程曲线和相机噪声抢同一帧），Perceptive BFM 7 幕（操作者—环境错配 / PMT 四阶段与「TCRS 只教不用」的契约 / TCRS 摆腿：接触、中足、MPPI / TCRS 身体：根高度、碰撞修复、多点 IK / 目标系动作对齐 / 恒等门控残差 / 定量证据与边界 —— TCRS 的「脚怎么走」与「身体怎么跟」各是一组公式，合成一幕会让 MPPI 候选表和根高度滤波抢画面；对齐与门控是论文两条独立的消融，各占一幕）。GentleHumanoid 7 幕（跟踪策略把外力当扰动 / 阻抗参考动力学 / 抵抗与引导两种交互弹簧 / 受力暴露的多样性 / 安全力阈值 / 教师—学生与柔顺奖励 / 定量证据与局限 —— 「交互力长什么样」与「什么时候、在哪几个 link、多硬」是论文式 3–4 与附录 A 调度两件事，阈值又有自己的截断公式与 ISO 换算，合并会让子步积分表、平衡点表与压强换算挤在同一帧）。四足野外盲走 9 幕（野外为什么难 / 相位振荡器 + 足端残差的动作空间 / 特权教师 / 本体学生 / 自适应地形课程 / 野外零样本与表 1 / 室内对照 / 记忆长度与踩空反射 / 解码器与局限 —— 论文的三个支柱 TCN 记忆、特权训练、地形课程各有一节方法和一组消融，加上单独的 Motion synthesis 就是第 2–5 幕；「野外 + 地下挑战赛」（表 1）与「室内台阶 / 负重 / 打滑」（图 3）是两类证据，「记忆要多长」（图 5B–D + 图 6）与「记忆里装了什么」（图 S2 的解码器）是验证节与分析节的两段，合成一幕会让表 1 的柱子和图 3E 的折线、或三档消融柱和摩擦曲线抢同一帧；动画、三个演示与笔记「🚶 具体实例」共用同一份论文数字，`test_quadterrain_explainer_demos_and_worked_example_share_the_paper_numbers` 会核对）。真实世界人形行走 10 幕（全尺寸人形为什么难 / 因果 Transformer / 两步训练 / 奖励与命令 / 虚拟弹簧与域随机化 / 户外与实验室 / 自然行走 / 下坡换步态 / 脚被绊住 / 消融与局限 —— 方法节的网络、训练目标、奖励、仿真各一幕；结果按论文的图一图一幕，图 5 的「慢变化改步态」与图 6 的「快变化被绊住」是上下文适应的两种时间尺度，各有一组神经元分析，合成一幕会让两条神经元曲线、二维散点和热图抢同一帧；14 项奖励塞进训练那一幕会和式 2、λ 曲线、图 8C 挤在一起；十幕起 `kit.js` 的幕号显示成 10 而不是 010，动画、三个演示、配音旁白与笔记「🚶 具体实例」共用同一份论文数字，命令、奖励、随机化、PPO 规模取自 arXiv v1 附录，图 2D、图 8 是读图近似值，`test_realhumanoid_explainer_demos_and_worked_example_share_the_paper_numbers` 会核对）。ASAP 12 幕（仿真里跳得起来、真机跳不动 / 从人类视频到 G1 参考动作 / 相位跟踪策略 / 上真机录一遍 / 残差动作模型 / 冻结 Δ 微调、部署时拿掉 / 开环回放（表 III）/ 闭环微调（表 IV）/ 真机只学脚踝（表 V）/ 怎么训 Δ（图 10）/ 怎么用 Δ（图 11）/ Δ 学到了什么与局限（图 12、13）—— 方法节「采数据」与「训练 Δ」是第 III-A、III-B 两节，Δ 的训练与使用各有一条式子；结果按论文自己提的 Q1–Q6 一问一幕，压成十幕会让表 III 与表 IV、或图 11 的曲线与图 12 的噪声柱抢同一帧；局限和真机那一幕讲的是同一批约束，并进最后一幕；第 5、11 幕的单关节玩具（G1 脚踝刚度 20、0.65 倍刚度的 −0.35 取自官方代码）与一步匹配的不动点 0.4077、三个演示、配音旁白与笔记「🚶 具体实例」共用同一份数字，图 5、图 11 是读图近似值，`test_asap_explainer_demos_and_worked_example_share_the_paper_numbers` 会核对，并用 Python 重跑一遍单关节玩具）。接触辅助 InEKF 12 幕（为什么要状态估计 / IMU 推、脚踩住、运动学校正 / 线性化点选错 / 一个矩阵装下状态 / 误差不看轨迹 / 运动学校正：H 是常数 / 看不见的方向 / 不确定性的形状 / IMU 零偏 / 增删接触点 / 收敛（图 3、8）/ Cassie 实测（图 9–12）—— 论文第 5 节的状态、过程模型、观测、可观性四块各一幕；第 4 节「EKF 在估计值上线性化错在哪」用站立的数值例子单独一幕，后面的定理才看得懂；第 6.4 节的协方差形状、第 7 节的零偏、第 8 节的增删接触各有自己的公式，合并会让可观性矩阵和香蕉、或零偏的 $A$ 和增删接触的 $F$、$G$ 抢同一帧；结果按收敛与精度两幕。站立例子（0.1 / 0.5 rad）、2 cm 校正、新触地点、香蕉的弯度在动画、三个演示、配音旁白与笔记「🚶 具体实例」里共用同一组数，图 3、4、6、8、9 是读图近似值，第 7 幕「QEKF 秩为 9」是自己算的小例子，`test_inekf_explainer_demos_and_worked_example_share_the_paper_numbers` 会核对，并用纯 Python 重算可观性矩阵的秩；Cassie 的图取自 Robot_Description_Gallery）。Berkeley Humanoid 12 幕（差距从哪来 / 孩子大小的人形（表 1）/ 执行器直接当关节 / 四种自研执行器（表 2）/ EtherCAT 与时序 / 可靠又便宜（表 3、4）/ 拟人的腿（表 5）/ 最简的控制器 / 辨识转子惯量与摩擦 / 随机化：硬件窄、环境宽（表 6）/ 走出实验室（图 4–7）/ 仿真与真机对比（图 8、9）与局限 —— 第 3 节是系统概览加四条设计考量，「仿真友好」里的结构（执行器即关节、armature 的 $N^2$）与时序（EtherCAT 的 0.5–2 ms、25 kHz PD）一个管建模误差、一个管指令执行，合成一幕会让转子惯量的柱子和时间线抢画面；第 4.2 节的「辨识」（摩擦曲线、CAD 的转子惯量）与「随机化多宽」（表 6 与窄 / 宽两条带）是两步；结果按第 5.1、5.2 节各一幕，5.3 的摔倒记录并进可靠那一幕。论文没给摩擦模型和 PD 增益，第 4、9 幕与演示取自官方训练代码并标明；第 3、10 幕的单关节玩具（URDF 的小腿 0.0288 kg·m²、代码 KFE 的 PD 与摩擦）与三个演示、配音旁白、笔记「🚶 具体实例」共用同一组数（漏掉 armature 起步快 42%，窄 / 宽随机化带宽 0.0119 / 0.0845 rad、约 7.1 倍），`test_berkeley_humanoid_explainer_demos_and_worked_example_share_the_paper_numbers` 会核对并用纯 Python 重跑玩具；真机图取自 Robot_Description_Gallery）。ToddlerBot 12 幕（研究要的平台和工业要的不一样（表 1）/ 30 个自由度与三种传动 / 可复现是硬约束 / 功率因子与电机选型（式 4–5、表 2、图 8）/ 零点校准（图 10）/ 电机台架辨识（式 6–7）/ 9 参数执行器模型（式 8–10、表 3、图 12）/ 遥操作装置与两层 PD / 关键帧动画与 RL 行走（式 1–2、表 5–6）/ 扩散策略 / 实验：臂展、负重、耐久与表 7 / 复刻的证据、局限与之后 —— 第 3 节的三条设计原则各占一幕（自由度与传动、可复现、功率因子），数字孪生在第 3.3 节分成「零点校准」「电机 sysID」两件事、附录又把 sysID 拆成台架测被动参数（8.9）和 chirp 拟合执行器模型（8.10），所以是第 5–7 三幕；遥操作装置和两层 PD 是真机数据这边，关键帧与 RL 是仿真数据这边，扩散策略单独一幕，压进十幕会让台架的线性拟合和式 9 的台阶、或领导臂和 ZMP 奖励抢同一帧；结果按第 5 节的「能力 / ML 兼容 / 可复现」分两幕。动画第 6、7 幕的单电机玩具（表 3 的 XC330 带 21700 电芯负载，k_p 取代码的 1500 ÷ 150）与三个演示、配音旁白、笔记「🚶 具体实例」共用同一份论文数字，图 8 的 p̃ 按图上标的数，`test_toddlerbot_explainer_demos_and_worked_example_share_the_paper_numbers` 会核对并用纯 Python 重跑玩具；真机图取自 Robot_Description_Gallery 按官方 URDF `toddlerbot_2xc` 渲染的图）。HumanML3D 12 幕（一句话生成动作卡在哪（图 1）/ 动作从哪来 / 每段配三句话（补充材料图 3 的标注界面）/ 一帧 263 维 / 每 4 帧一个 snippet code / Text2Length（补充材料图 6）/ 文本编码器与词注意力 / 先验、后验、生成器 / 三项损失与课程学习 / 评测器与 R-Precision / 结果（图 4、用户研究）/ 消融、局限与遗产（图 6、补充材料图 8）—— 一篇论文同时交了数据集、方法和评测协议：数据集里「动作怎么统一格式」与「文字怎么来」是第 4 节的两件事，「每帧存什么」是第 5 节；方法里自编码器、长度采样、文本编码与局部词注意力（式 4）、先验 / 后验 / 生成器（式 3、5）、训练方案（式 6 与课程）各自独立；评测器是附录 B 里后来被整个领域沿用的贡献；结果与消融、局限各一幕。第二版是九幕，注意力和三个 GRU、标注和统一格式、结果和消融各挤在一帧里、字多图少，2026-10-11 按「多用图少用文字」拆成十二幕：骨架用官方仓库自带片段 `012314` 的真实 22 关节数据（一段网球一发，base64 嵌在 bundle 里），第 4 幕的热图是这段 170 × 263 特征按 `Mean.npy` / `Std.npy` 做 Z-score 画的，第 6 幕的两条长度分布是从补充材料图 6 量出来的读图近似值）。PHP、Perceptive BFM、GentleHumanoid 与 HumanML3D 的动画算例与笔记「🚶 具体实例」共用同一组数字（HumanML3D 的十二幕、三个演示、配音旁白与具体实例共用片段 `012314` 和补充材料图 6 的读图值，`test_humanml3d_explainer_demos_and_worked_example_share_the_paper_numbers` 会核对，并用 Python 重跑 R-Precision 玩具）。Transformer 7 幕（RNN 的串行瓶颈 / 缩放点积注意力手算 / 为什么除以 $\sqrt{d_k}$ / 多头 / 位置编码 / 编码器—解码器与因果掩码 / 训练配方与结果 —— 「一次注意力怎么算」与「为什么要缩放」是 $d_k = 4$ 与 $d_k = 64$ 两组数，合成一幕会让权重条和梯度对比抢画面），π₀ 7 幕（三道坎 / 两套权重 / 分块掩码与 KV 缓存 / 流匹配 / 动作块与推理预算 / 数据与配方 / 实验与边界 —— 附录 B 里「两套权重」和「掩码」是分开的两段），π₀.₅ 7 幕（开放世界的难题 / 异构数据 / 两层推理 / 离散 + 连续两阶段 / 输入输出与部署 / 训练地点数 / 消融 —— 两层推理是推理时的分解、两阶段是训练时的分解），OP3 足球 12 幕（为什么是足球 / 一步控制 / 踢球教师 / 起身教师 / 按状态蒸馏与 λ / 自博弈 / 奖励与安全正则 / 零样本上真机 / 对比脚本控制器 / 定位球与对手意识 / 行为嵌入与价值函数 / 局限与之后 —— 两个阶段各有两件独立的事：踢球教师与起身教师是分开训的两个策略，蒸馏回答「向谁学」（式 2–3 的 λ）、自博弈回答「和谁踢」（对手池与图 7），论文是两段与两组消融；观测与滤波撑得起单独一幕；结果按论文小节一节一幕（表 1 与测法、图 5、图 4 + 图 6），压回七幕会让 λ 曲线和对手池、四项基本功和定位球抢同一帧；动画、三个演示、配音旁白与笔记「🚶 具体实例」共用同一份论文数字，156% / 24% 是 arXiv v1 的另一种测法，`test_op3soccer_explainer_demos_and_worked_example_share_the_paper_numbers` 会核对；十二幕的封面目录排成两列，单列会落到 3:4 裁剪线以下），SMP 8 幕（对抗先验不能复用 / 预训练冻结的扩散模型 / SDS 残差当奖励 / ESM 固定三档 / AdaNorm 按档归一化 / GSI 生成初始状态 / CFG 与上下半身组合 / 闭环、证据与边界 —— ESM 与 AdaNorm 同在论文 5.1 节，但一个管「抽哪一档」（方差，表 5 / 7）、一个管「三档怎么加」（量级，表 6），合成一幕会让 50 档的对数曲线和三档占比条抢同一帧；第 3–5、7 幕的二维玩具算例与笔记「🚶 具体实例」共用同一组数，`test_smp_explainer_and_worked_example_share_the_same_numbers` 会核对），域随机化 8 幕（现实鸿沟与第三条路 / 七项随机化与三种纹理 / 相机不标定 / VGG-16 检测器与训练 / 真机 1.5 cm / 图 4–5 的张数与纹理种数 / 表 2 逐项拿掉 / 真机抓取与之后 —— 「随机什么」与「相机怎么随机」是论文 III-A 里两件事，后者有自己的 10 × 5 × 10 cm / 0.1 rad / 5% 与桌高固定；「要多少」（图 4、图 5 两条对数轴曲线）与「拿掉哪一项」（表 2 的分组柱）是 IV-C 里两组独立的消融，合成一幕会抢同一帧；第 3、5–7 幕与三个演示、笔记「🚶 具体实例」共用同一份论文数字，图 4 / 图 5 是读图近似值，`test_dr_explainer_demos_and_worked_example_share_the_paper_numbers` 会核对）；Transformer、π₀、π₀.₅ 三篇的动画算例与笔记「🚶 具体实例」共用同一组数字，`tests/test_paper_demos.py::test_vla_explainers_share_numbers_with_their_notes` 会核对。ExBody 13 幕（图形学的角色为什么上不了真机 / 上半身照着做、两条腿只跟速度 / 策略看得见什么 / 从 CMU 挑出 780 段 / 人的数据自带分布 / 重定向：直接抄关节角 / 从数据里抽起点 / 五项跟踪奖励 / 正则：脚要抬、动作别抖 / 跟得怎么样：根运动与双手 / 随机命令与全身跟踪 / 加上 AMP 会怎样 / 真机与局限 —— 第 II 节的问题形式化分「目标拆两半」与「观测只用真机拿得到的」两段，第 III 节的数据有「怎么挑」（关键词、表 II）与「分布什么样」（图 3）两件事，重定向、RSI、跟踪奖励（表 III）各一幕，附录的正则（表 VI）与训练设置合一幕；结果按论文自己的问题：根运动与双手同是「跟得怎么样」（图 5、6），随机命令与全身跟踪（表 IV、图 8）、AMP（表 IV、图 7、表 V）、真机与局限各一幕，压成 12 幕会让表 II 的条和图 3、或表 III 的五条和表 VI 的十四项抢同一帧。H1 与人的骨架是我们照官方重定向步骤（poselib 的 T 字姿势对齐 + `motion_lib` 的指数映射与投影）用 CMU 官网的 ASF/AMC 重算的四段动作（`141_16` 挥手、`104_41` 僵尸走、`141_22` 击掌、`08_07` 大步走），按 Robot_Retarget_Online 的 three.js 材质离线渲染成贴图表放在 `assets/img/papers/exbody/h1_3d/`（五张约 1.4 MB），每帧 125 个 int16 以 base64 嵌进 bundle；表 I–VIII 照抄论文，第 4、5、10–13 幕用论文图 1、3、5–9 的裁剪；第 6 幕的指数映射算例、例 5 的假设误差与三个演示、配音旁白、笔记「🚶 具体实例」共用同一组数，`test_exbody_explainer_demos_and_worked_example_share_the_paper_numbers` 会解码嵌入的数据用 Python 再算一遍）。
 
 改动分镜时，`tests/test_paper_demos.py::test_explainer_scene_count_matches_the_title_and_note` 会核对三件事是否一致：分镜数量、`title` / `ariaLabel` 里的中文幕数、笔记里的 `## 🎬 N幕动画` 标题；`sub` 里写的「约 N 秒」也要和各幕 `dur` 之和对得上。新增讲解动画时记得把 bundle 加进 `EXPLAINER_BUNDLES` 与 `EXPLAINER_SCENES` 两处。
 

diff --git a/scripts/paper_video/RELEASE_PLAN.md b/scripts/paper_video/RELEASE_PLAN.md
@@ -46,7 +46,7 @@
 - [x] 021 [ToddlerBot](../../papers/12_Hardware_Design/ToddlerBot_Open-Source_ML-Compatible_Humanoid_Platform_for_Loco-Manipulation/ToddlerBot_Open-Source_ML-Compatible_Humanoid_Platform_for_Loco-Manipulation.md)（2025）🎬 `toddlerbot` — day6「仿真与硬件」：把校准、数字孪生、遥操作采集与部署工具连成完整平台。〔取舍〕与 Berkeley Humanoid 连着讲，由硬件与仿真对齐走向整套工具链；片尾从遥操作采集引出 022 HumanML3D / 023 GMR 的动作数据与重定向。2026-10-09 新建笔记：以 arXiv v4（CoRL 2025 版）为准，对照 v1（执行器模型从 6 参数改成 9 参数、表 3 全部重测）与官方代码 2.0（50 → 200 Hz、膝去掉平行连杆、`rsl_rl`）；新做十二幕动画、三个交互演示（一台 Dynamixel 在仿真里长什么样、拿掉一个参数 chirp 跟踪差多少、功率因子按身高体重选电机）与配音视频，片头接 020 的片尾预告，片尾只预告 022 HumanML3D「人类动作数据从哪里来」；2026-10-10 按看片反馈把片头的 CoRL 改成一个词写、一个词念（原来逐字母念），整片重渲后换进笔记；同日又按「格式错位」与「多用图少用文字、动效符合物理」两轮反馈逐幕修改，已出 12 幕改动片段，整片待确认后重渲；2026-10-11 已发布（用户确认）
 - [x] 022 [AMASS / HumanML3D](../../papers/14_Human_Motion/HumanML3D/HumanML3D.md)（2019 / 2022）🎬 `humanml3d` — AMASS / HumanML3D→GMR；视频讲的是 HumanML3D。2026-10-11 按 ToddlerBot 之后的排期重做：笔记对照 CVPR 正文、补充材料与两个官方仓库逐条核查，改正十余处（片段 012314 的根转角是半角、实际约 −45.6°；根高度存绝对值不是速度；这段是 Eyes_Japan 的一段网球一发、先侧向冲出 2.3 m 再退回；feat_bias 在官方脚本里被除两次、实际放大 25 倍；早停是连续第 4 次不创新低；长度标签实际 9–49；局限分罕见 / 复杂 / 细粒度三类；消融「超过 6%」按相对掉幅读等）；讲解动画按「多用图少用文字」从九幕拆成十二幕，骨架换成片段 012314 的真实 22 关节数据，用上正文图 1、4、6 与补充材料图 3、6、8（图 6 的八条长度分布按像素量成读图近似值），每幕最多一条公式；新增三个交互演示（片段 012314 的 263 维、Text2Length 采样、R-Precision 玩具）；配音重写为 10 分 59 秒，片头接 021 的片尾预告（人类的动作数据从哪里来、怎样配上文字），片尾只预告 023 GMR（人和机器人骨架不同，怎样把人的动作搬到机器人身上），主动画各幕不预告下一篇；读音用同句合成比 log-mel DTW 核过「量出 / 还剩 / 长短 / 重建」，「L 1 重建误差」「倒计时」两处测不准，换了说法；第 4 幕结尾改稿（#617）后整片 16 段并行重渲 19,779 帧（1080×1920、30 fps、CRF 19，逐段帧数与全片解码已核），网页版 `-preset slow -crf 37 -tune stillimage` 加 48k 单声道音频压到 11.8 MB 换进笔记，海报由封面缩成 540×960；完整原片（35.1 MiB）和封面已上传百度网盘 `/学习/RLPN/HumanML3D/`，大小与本地一致；2026-10-11 已发布（用户确认）
 - [ ] 023 [GMR](../../papers/02_Motion_Retargeting/Retargeting_Matters__General_Motion_Retargeting_for_Humanoid_Motion_Tracking/Retargeting_Matters__General_Motion_Retargeting_for_Humanoid_Motion_Tracking.md)（2025）🎬 `gmr` — GMR 论文用 BeyondMimic 作中性训练框架做对比，所以排在它后面；2026-10-11 按 HumanML3D 之后的排期重做：笔记对照 arXiv v1 的 LaTeX 源码与官方仓库逐条核查，改正十余处（第 5 步是换权重、加入所有位置，不是加接触 / 自碰撞约束；两阶段是「全部朝向 + 末端位置」→「全部位置」；速度限位默认关闭、`--rate_limit` 只管播放；表 I 的读法；`TEST_MOTIONS.md` 把已成功的动作当成了失败；会议名 README 里没有等）；讲解动画从七幕改成十三幕，人和 G1 用 LAFAN1 `walk1_subject1` 第 920–1003 帧与我们用 mink + MuJoCo 照官方代码跑出的结果（四种设定），第 10、11 幕用论文图 1、图 3；新增三个交互演示（缩放比例滑块、两阶段 IK 玩具、表 I / 表 III 浏览）；配音重写为 12 分 5 秒，片头接 022 的片尾预告（人和机器人的骨架不一样，怎样把人的动作搬到机器人身上），片尾只预告 024 OmniRetarget（有接触时怎样把交互也保住），主动画各幕不预告下一篇；整片四段并行渲染。同日按用户建议改用 Robot_Retarget_Online 的模型加载代码把第 3–8、12 幕的 G1 换成 3D 渲染（同一批 qpos 逐帧离线渲染成贴图表），第 12 幕默认姿态改取 BeyondMimic `robots/g1.py` 的 init_state，旁白只改第 3 幕三处「一行」的读音（按看片反馈念 háng，旁白写「航」、字幕换回），整片重渲；2026-10-12 按看片反馈把第 1 幕「调参」、第 10、13 幕「单独调」改念 tiáo（旁白写「条餐」「单独条」、字幕换回），先出三段确认后再整片重渲；同日 sim2sim 改念 sim to sim、分镜去掉六处压字与越框、第 10 幕图 3(c) 的圈改到腰横滚真正跳变的位置，旧合成地址 403 后按 rany2/edge-tts PR #491 改走 api.msedgeservices.com，整篇重合成为 12 分 2 秒后整片重渲
-- [ ] 024 [OmniRetarget](../../papers/02_Motion_Retargeting/OmniRetarget__Interaction-Preserving_Data_Generation_for_Humanoid_Whole-Body_Loc/OmniRetarget__Interaction-Preserving_Data_Generation_for_Humanoid_Whole-Body_Loc.md)（2025）🎬 `omniretarget` — GMR→OmniRetarget，从「只盯关键点」到「保住交互」；2026-10-12 按 GMR 之后的排期重做：笔记对照 arXiv v3 的 LaTeX 源码、项目页与官方 holosoma 代码逐条核查，改正八处（扩增的 79.1% 是在全部扩增数据上训练并评测，82.2% 只评名义动作；interaction mesh 出自 Ho、Komura、Tai 2010；BeyondMimic 作者是 Liao 等；LAFAN1 是 Ubisoft La Forge；IMMA 是给双足人形做的；观测没点名后空翻；8 小时以上 / 9 小时以上 / 8.38 h 三种说法的出处；sub3 身高 1.941 m），并记下代码与论文的差别（速度限位没实现、`activate_obj_non_penetration` 没被读到、人-物任务只做位姿扩增、只有下身锚定没有钉住初始双脚）；讲解动画从七幕改成十二幕，G1 用我们照官方代码在 OMOMO `sub3_largebox_003` 与 `mocap_climb_seq_0` 上跑的复现实验（官方 / 关掉不穿透 / 关掉脚粘地、五种扩增、锚定三种设定、平台三档），按 Robot_Retarget_Online 的材质离线渲染成 3D 贴图表；第 1、8、12 幕用论文图 6、图 3、图 1 与图 5；新增三个交互演示（硬约束开关、扩增浏览、表 II 与图 7）；配音重写为 12 分 12 秒，片头接 023 的片尾预告（有接触时怎样把交互也保住），片尾只预告 025 的主题（一边稳稳地走、一边用上半身跟着人做动作），主动画各幕不预告下一篇；整片四段并行渲染；2026-10-13 按看片反馈：第 1 幕结尾加一句话解释 SOCP（二阶锥规划：一种凸优化，约束里可以有「向量长度不超过某个值」），表 I 下加一张二阶锥小卡片；第 2 幕在 Delaunay 之后加一句它的规则（外接球里不能再有别的点，所以只连彼此相邻的点），配平面上的外接圆示意；第 3 幕两张点图旁补上人的骨架、箱子和同一帧 G1 的 3D 渲染，用放大镜看手腕；build.py 的字幕切行不再在英文词中间断开（成片里出过「De / launay」「Laplac / ian」）；第 1、2 幕各延长 3 s，只合成新加的两句，其余旁白原样拼回，整片重渲为 12 分 28 秒
+- [ ] 024 [OmniRetarget](../../papers/02_Motion_Retargeting/OmniRetarget__Interaction-Preserving_Data_Generation_for_Humanoid_Whole-Body_Loc/OmniRetarget__Interaction-Preserving_Data_Generation_for_Humanoid_Whole-Body_Loc.md)（2025）🎬 `omniretarget` — GMR→OmniRetarget，从「只盯关键点」到「保住交互」；2026-10-12 按 GMR 之后的排期重做：笔记对照 arXiv v3 的 LaTeX 源码、项目页与官方 holosoma 代码逐条核查，改正八处（扩增的 79.1% 是在全部扩增数据上训练并评测，82.2% 只评名义动作；interaction mesh 出自 Ho、Komura、Tai 2010；BeyondMimic 作者是 Liao 等；LAFAN1 是 Ubisoft La Forge；IMMA 是给双足人形做的；观测没点名后空翻；8 小时以上 / 9 小时以上 / 8.38 h 三种说法的出处；sub3 身高 1.941 m），并记下代码与论文的差别（速度限位没实现、`activate_obj_non_penetration` 没被读到、人-物任务只做位姿扩增、只有下身锚定没有钉住初始双脚）；讲解动画从七幕改成十二幕，G1 用我们照官方代码在 OMOMO `sub3_largebox_003` 与 `mocap_climb_seq_0` 上跑的复现实验（官方 / 关掉不穿透 / 关掉脚粘地、五种扩增、锚定三种设定、平台三档），按 Robot_Retarget_Online 的材质离线渲染成 3D 贴图表；第 1、8、12 幕用论文图 6、图 3、图 1 与图 5；新增三个交互演示（硬约束开关、扩增浏览、表 II 与图 7）；配音重写为 12 分 12 秒，片头接 023 的片尾预告（有接触时怎样把交互也保住），片尾只预告 025 的主题（一边稳稳地走、一边用上半身跟着人做动作），主动画各幕不预告下一篇；整片四段并行渲染；2026-10-13 按看片反馈：第 1 幕结尾加一句话解释 SOCP（二阶锥规划：一种凸优化，约束里可以有「向量长度不超过某个值」），表 I 下加一张二阶锥小卡片；第 2 幕在 Delaunay 之后加一句它的规则（外接球里不能再有别的点，所以只连彼此相邻的点），配平面上的外接圆示意；第 3 幕两张点图旁补上人的骨架、箱子和同一帧 G1 的 3D 渲染，用放大镜看手腕；build.py 的字幕切行不再在英文词中间断开（成片里出过「De / launay」「Laplac / ian」）；第 8 幕爬平台的 G1 补上手和脚（球形手版 G1 的脚、踝和手只有碰撞网格，导出时被当成不可见跳过，改成没有可视网格的部位用碰撞网格画，三档重渲）；第 10 幕表 II 柱子上的数字挪到柱顶上方；第 1、2 幕各延长 3 s，只合成新加的两句，其余旁白原样拼回，整片重渲为 12 分 28 秒
 
 ### day6 补充集的制作与发布待办
 
